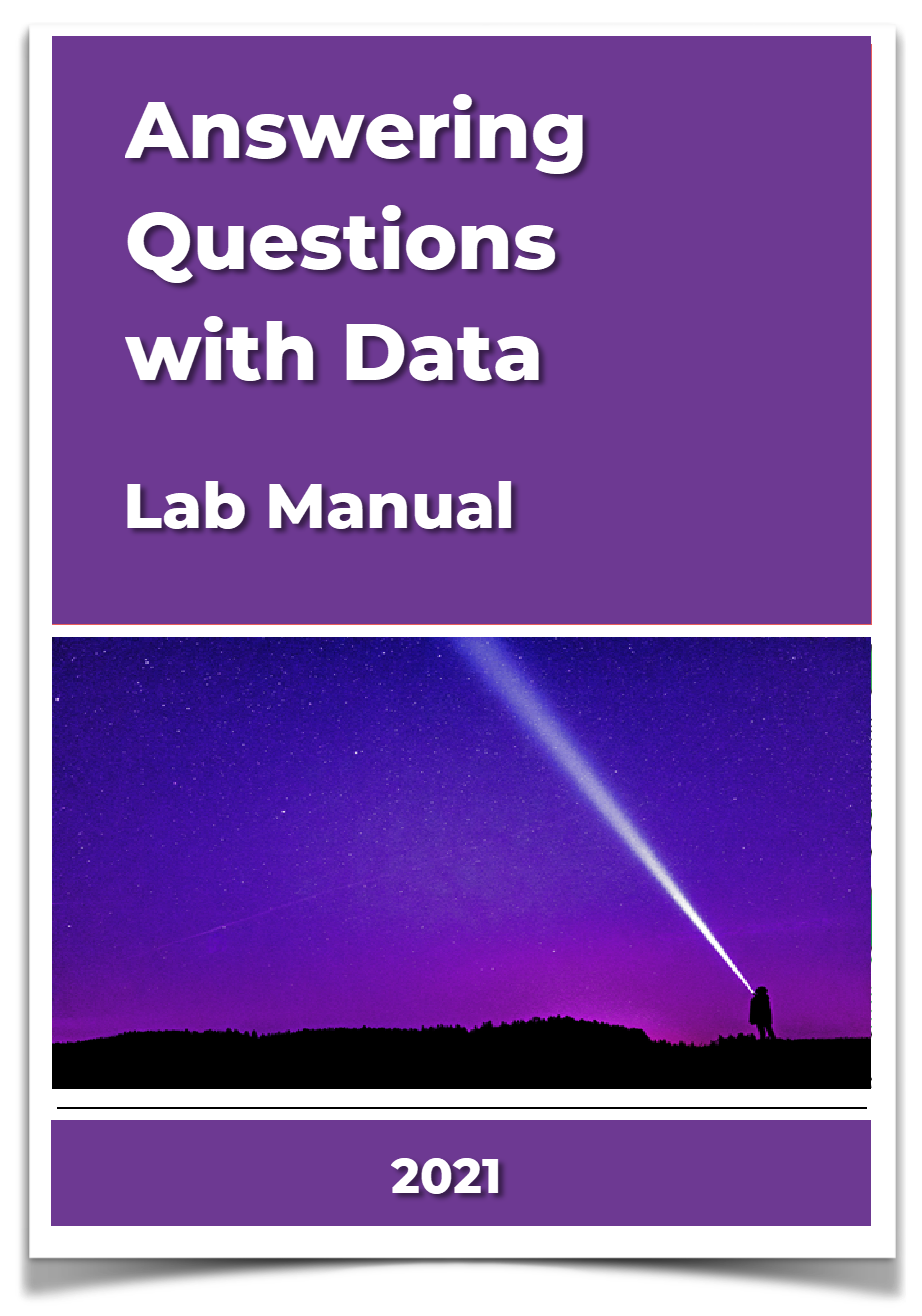
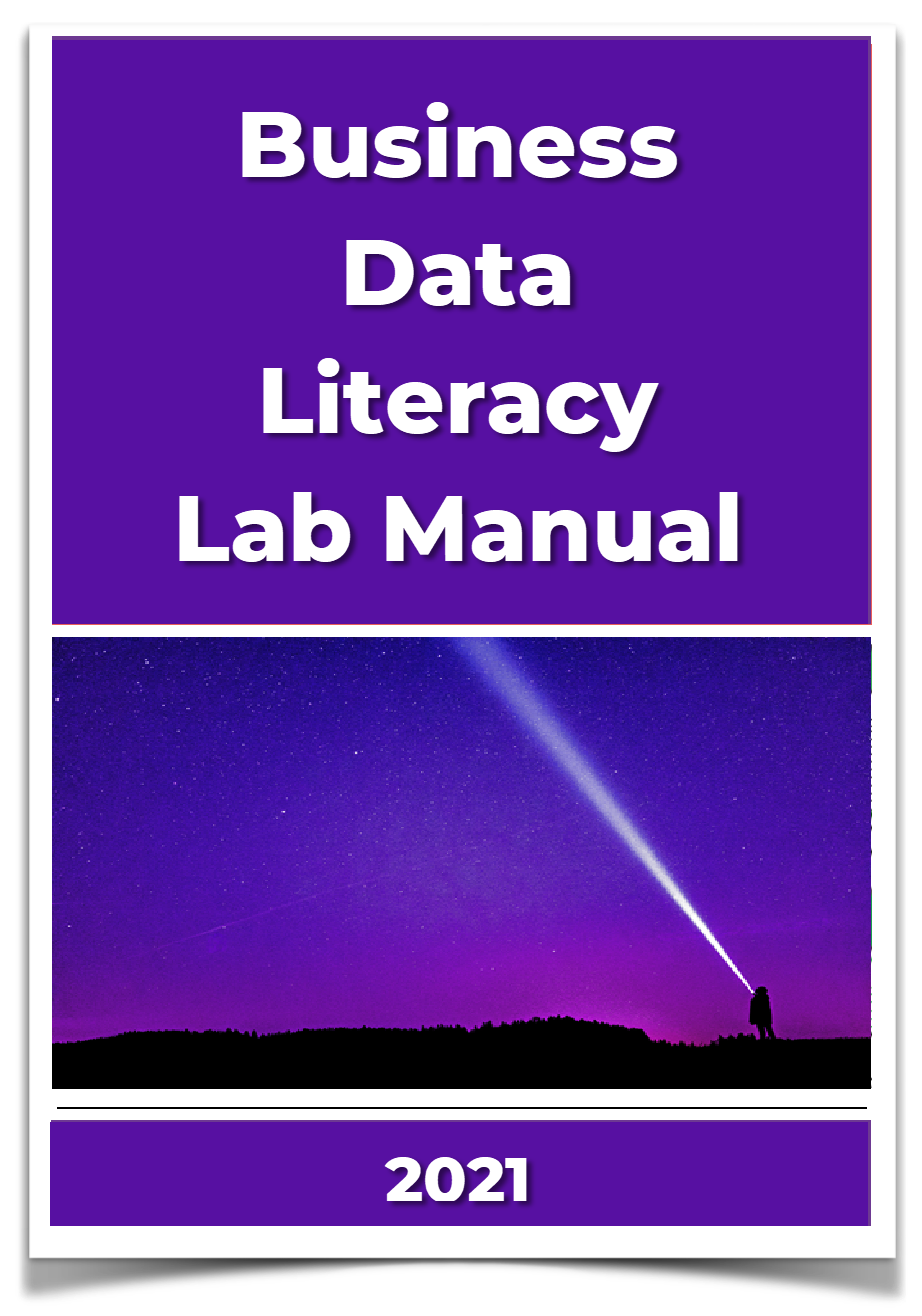
more changes to index text and new image

diff --git a/docs/index.html b/docs/index.html
@@ -4,11 +4,11 @@
 
   <meta charset="utf-8" />
   <meta http-equiv="X-UA-Compatible" content="IE=edge" />
-  <title>Answering Questions with Data: Lab Manual</title>
+  <title>Business Data Literacy: Lab Manual</title>
   <meta name="description" content="A lab manual for Business Data Literacy" />
   <meta name="generator" content="bookdown 0.24 and GitBook 2.6.7" />
 
-  <meta property="og:title" content="Answering Questions with Data: Lab Manual" />
+  <meta property="og:title" content="Business Data Literacy: Lab Manual" />
   <meta property="og:type" content="book" />
   
   
@@ -16,7 +16,7 @@
   
 
   <meta name="twitter:card" content="summary" />
-  <meta name="twitter:title" content="Answering Questions with Data: Lab Manual" />
+  <meta name="twitter:title" content="Business Data Literacy: Lab Manual" />
   
   <meta name="twitter:description" content="A lab manual for Business Data Literacy" />
   
@@ -437,7 +437,7 @@ mattcrump=1;
       <div class="body-inner">
         <div class="book-header" role="navigation">
           <h1>
-            <i class="fa fa-circle-o-notch fa-spin"></i><a href="./">Answering Questions with Data: Lab Manual</a>
+            <i class="fa fa-circle-o-notch fa-spin"></i><a href="./">Business Data Literacy: Lab Manual</a>
           </h1>
         </div>
 
@@ -447,17 +447,18 @@ mattcrump=1;
             <section class="normal" id="section-">
 <img src="LabmanualCover.png" id="coverpic" width="350" style="display: block; margin: auto;" />
 <div id="header">
-<h1 class="title">Answering Questions with Data: Lab Manual</h1>
+<h1 class="title">Business Data Literacy: Lab Manual</h1>
 <p class="author"><em>Dawn E Wright</em></p>
 <p class="date"><em>2021</em></p>
 </div>
 <div id="preface" class="section level1 unnumbered">
 <h1>Preface</h1>
 <p>First Draft (version 0.9 = Sept 21, 2021)</p>
-<p>This is the companion lab to our free introductory statistics for undergraduate business students textbook, <a href="https://crumplab.github.io/statistics/">Answering questions with data</a>.</p>
+<p>This is the companion lab to our free data literacy for undergraduate business students textbook, <a href="https://drdawnstats.github.io/bus_data_lit_text/">Business Data Literacy</a>.</p>
 <p>This lab manual involves step by-step tutorials to solve data-analysis problems using R and RStudio open source software.</p>
-<p>This lab manual is adapted from and based upon the PSYC 3400 Lab Manual by Matthew J. C. Crump, Anjali Krishnan, Stephen Volz, and Alla Chavarga.
+<p>This lab manual is adapted in part from upon the PSYC 3400 Lab Manual by Matthew J. C. Crump, Anjali Krishnan, Stephen Volz, and Alla Chavarga.
 <a href="https://www.crumplab.com/statisticsLab/index.html">Answering questions with data: Lab Manual</a></p>
+<p>Additions and changes to the PSYC 3400 Lab Manual are indicated within the manual.</p>
 <p>The lab manual is a free and open resource. See below for more information about copying, making change, or contributing to the lab manual.</p>
 <div id="important-notes" class="section level2" number="0.1">
 <h2><span class="header-section-number">0.1</span> Important notes</h2>
@@ -491,7 +492,7 @@ mattcrump=1;
 </div>
 <div id="acknowledgments" class="section level3" number="0.1.4">
 <h3><span class="header-section-number">0.1.4</span> Acknowledgments</h3>
-<p>Thanks to the librarians at Brooklyn College of CUNY, especially Miriam Deutch, and Emily Fairey, for their support throughout the process. Thanks to CUNY for supporting OER development, and for the grant we received to develop this work.</p>
+<p>Thanks to Dr. Crump and his team for creating such a great resource.</p>
 </div>
 </div>
 </div>

diff --git a/docs/404.html b/docs/404.html
@@ -4,11 +4,11 @@
 
   <meta charset="utf-8" />
   <meta http-equiv="X-UA-Compatible" content="IE=edge" />
-  <title>Page not found | Answering Questions with Data: Lab Manual</title>
+  <title>Page not found | Business Data Literacy: Lab Manual</title>
   <meta name="description" content="A lab manual for Business Data Literacy" />
   <meta name="generator" content="bookdown 0.24 and GitBook 2.6.7" />
 
-  <meta property="og:title" content="Page not found | Answering Questions with Data: Lab Manual" />
+  <meta property="og:title" content="Page not found | Business Data Literacy: Lab Manual" />
   <meta property="og:type" content="book" />
   
   
@@ -16,7 +16,7 @@
   
 
   <meta name="twitter:card" content="summary" />
-  <meta name="twitter:title" content="Page not found | Answering Questions with Data: Lab Manual" />
+  <meta name="twitter:title" content="Page not found | Business Data Literacy: Lab Manual" />
   
   <meta name="twitter:description" content="A lab manual for Business Data Literacy" />
   
@@ -437,7 +437,7 @@ mattcrump=1;
       <div class="body-inner">
         <div class="book-header" role="navigation">
           <h1>
-            <i class="fa fa-circle-o-notch fa-spin"></i><a href="./">Answering Questions with Data: Lab Manual</a>
+            <i class="fa fa-circle-o-notch fa-spin"></i><a href="./">Business Data Literacy: Lab Manual</a>
           </h1>
         </div>
 

diff --git a/docs/software.html b/docs/software.html
@@ -4,11 +4,11 @@
 
   <meta charset="utf-8" />
   <meta http-equiv="X-UA-Compatible" content="IE=edge" />
-  <title>Software | Answering Questions with Data: Lab Manual</title>
+  <title>Software | Business Data Literacy: Lab Manual</title>
   <meta name="description" content="A lab manual for Business Data Literacy" />
   <meta name="generator" content="bookdown 0.24 and GitBook 2.6.7" />
 
-  <meta property="og:title" content="Software | Answering Questions with Data: Lab Manual" />
+  <meta property="og:title" content="Software | Business Data Literacy: Lab Manual" />
   <meta property="og:type" content="book" />
   
   
@@ -16,7 +16,7 @@
   
 
   <meta name="twitter:card" content="summary" />
-  <meta name="twitter:title" content="Software | Answering Questions with Data: Lab Manual" />
+  <meta name="twitter:title" content="Software | Business Data Literacy: Lab Manual" />
   
   <meta name="twitter:description" content="A lab manual for Business Data Literacy" />
   
@@ -437,7 +437,7 @@ mattcrump=1;
       <div class="body-inner">
         <div class="book-header" role="navigation">
           <h1>
-            <i class="fa fa-circle-o-notch fa-spin"></i><a href="./">Answering Questions with Data: Lab Manual</a>
+            <i class="fa fa-circle-o-notch fa-spin"></i><a href="./">Business Data Literacy: Lab Manual</a>
           </h1>
         </div>
 
